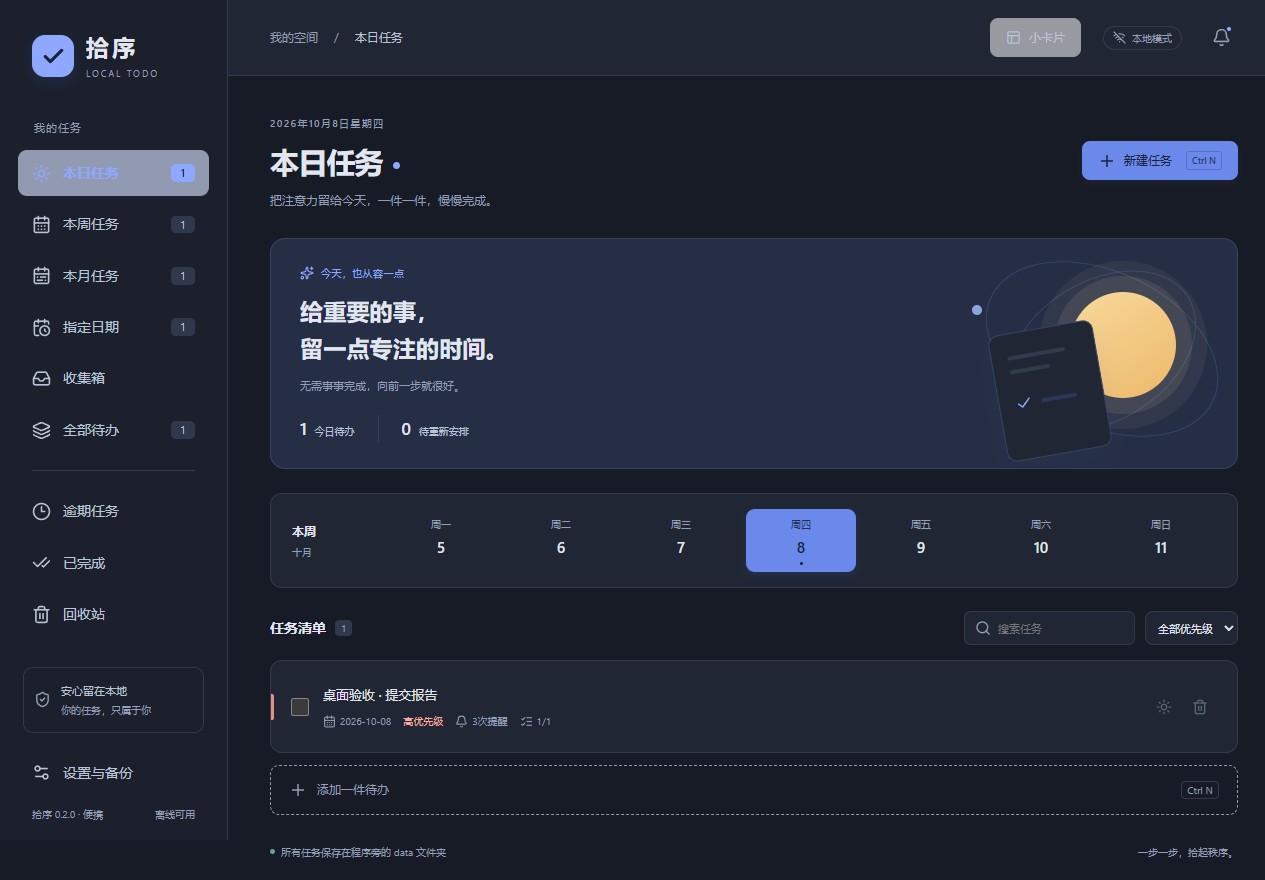
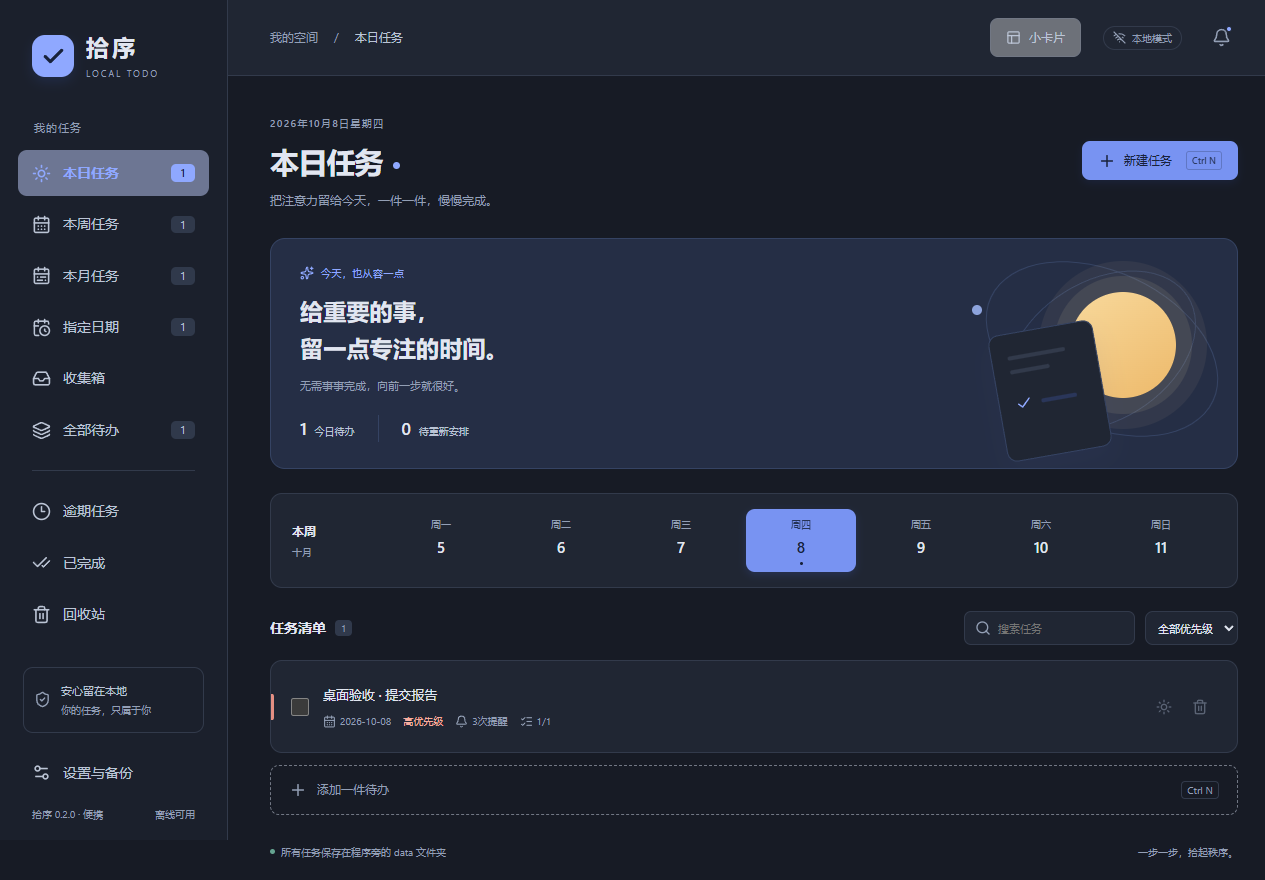
feat: add desktop card context menu and disable browser menus

Changed region(s): [[0.0, 0.1534, 0.185, 0.2455], [0.7708, 0.0, 0.8632, 0.092]]

diff --git a/src/app/DesktopCard.tsx b/src/app/DesktopCard.tsx
@@ -3,9 +3,13 @@ import {Pin,PinOff,ArrowUpRight,X,Plus,Check,CalendarDays,ChevronDown} from 'luc
 import {api} from '../features/tasks/api';
 import {emptyDraft,type Snapshot,type Task,type View} from '../features/tasks/types';
 import {confirmAction} from './confirm';
+import ContextMenu,{type ContextMenuItem} from './ContextMenu';
+import {useContextMenuPolicy} from './useContextMenuPolicy';
 import '../styles/card.css';
 
 export default function DesktopCard(){
+ useContextMenuPolicy();
+ const [menu,setMenu]=useState<{x:number;y:number;task:Task|null}|null>(null);const quickInput=useRef<HTMLInputElement>(null);
  const [data,setData]=useState<Snapshot|null>(null),[view,setView]=useState<View>('today'),[pinned,setPinned]=useState(true),[title,setTitle]=useState(''),[error,setError]=useState(''),[busy,setBusy]=useState(false),[pending,setPending]=useState<string[]>([]),[limit,setLimit]=useState(20);
  const sequence=useRef(0);
  const refresh=useCallback(async()=>{const seq=++sequence.current;try{const result=await api.snapshot({view,selected_date:null,search:'',priority:null,offset:0,limit});if(seq===sequence.current)setData(result);}catch(e){if(seq===sequence.current)setError(String(e instanceof Error?e.message:e));}},[view,limit]);
@@ -15,14 +19,20 @@ export default function DesktopCard(){
  async function action(callback:()=>Promise<unknown>){setError('');try{await callback();}catch(e){setError(e instanceof Error?e.message:String(e));}}
  async function add(e:React.FormEvent){e.preventDefault();if(busy||!title.trim())return;setBusy(true);await action(async()=>{const today=data?.today;if(!today)throw new Error('任务尚未加载，请稍后重试');await api.save(null,{...emptyDraft(today,data?.settings.default_reminder_time),title:title.trim(),planned_date:today,due_date:today},'single');setTitle('');await refresh();});setBusy(false);}
  async function toggle(task:Task){if(pending.includes(task.id))return;setPending(p=>[...p,task.id]);await action(async()=>{if(task.draft.subtasks.some(t=>!t.completed)&&!await confirmAction('完成父任务将同时完成所有未完成子任务，是否继续？'))return;await api.complete(task.id,true);await refresh();});setPending(p=>p.filter(id=>id!==task.id));}
- return <main className="desktop-card">
-  <header className="card-header"><div className="card-brand" data-tauri-drag-region><span className="card-logo" data-tauri-drag-region><Check size={16}/></span><strong data-tauri-drag-region>拾序</strong><span className="card-drag-hint" data-tauri-drag-region>桌面小卡片</span></div><div className="card-actions"><button className="icon-button" aria-label={pinned?'取消置顶':'置顶卡片'} aria-pressed={pinned} disabled={busy} onClick={()=>{setBusy(true);void action(async()=>setPinned(await api.setCardPin(!pinned))).finally(()=>setBusy(false));}}>{pinned?<Pin size={15}/>:<PinOff size={15}/>}</button><button className="icon-button" aria-label="打开主界面" onClick={()=>void action(api.openMain)}><ArrowUpRight size={17}/></button><button className="icon-button" aria-label="隐藏小卡片" onClick={()=>void action(api.hideCard)}><X size={16}/></button></div></header>
+ async function togglePin(){if(busy)return;setBusy(true);await action(async()=>setPinned(await api.setCardPin(!pinned)));setBusy(false);}
+ async function removeTask(task:Task){if(pending.includes(task.id))return;setPending(p=>[...p,task.id]);await action(async()=>{await api.remove(task.id,true);await refresh();});setPending(p=>p.filter(id=>id!==task.id));}
+ const items:ContextMenuItem[]=[];
+ if(menu?.task){const task=menu.task;const disabled=pending.includes(task.id);items.push({label:'完成任务',disabled,onSelect:()=>void toggle(task)},{label:'编辑任务',disabled,onSelect:()=>void action(()=>api.editInMain(task.id))},{label:'移入回收站',disabled,danger:true,onSelect:()=>void removeTask(task)});}
+ items.push({label:'添加今日任务',disabled:busy,onSelect:()=>quickInput.current?.focus()},{label:pinned?'取消置顶':'置顶卡片',disabled:busy,onSelect:()=>void togglePin()},{label:'刷新任务',onSelect:()=>void refresh()},{label:'打开主界面',onSelect:()=>void action(api.openMain)},{label:'隐藏小卡片',onSelect:()=>void action(api.hideCard)});
+ return <main className="desktop-card" onContextMenu={event=>{event.preventDefault();if((event.target as Element).closest('[role="menu"]'))return;const id=(event.target as Element).closest<HTMLElement>('.card-task')?.dataset.taskId;setMenu({x:event.clientX,y:event.clientY,task:data?.tasks.find(task=>task.id===id)||null});}}>
+  <header className="card-header"><div className="card-brand" data-tauri-drag-region><span className="card-logo" data-tauri-drag-region><Check size={16}/></span><strong data-tauri-drag-region>拾序</strong><span className="card-drag-hint" data-tauri-drag-region>桌面小卡片</span></div><div className="card-actions"><button className="icon-button" aria-label={pinned?'取消置顶':'置顶卡片'} aria-pressed={pinned} disabled={busy} onClick={()=>void togglePin()}>{pinned?<Pin size={15}/>:<PinOff size={15}/>}</button><button className="icon-button" aria-label="打开主界面" onClick={()=>void action(api.openMain)}><ArrowUpRight size={17}/></button><button className="icon-button" aria-label="隐藏小卡片" onClick={()=>void action(api.hideCard)}><X size={16}/></button></div></header>
   <section className="card-overview"><div><span>{data?.today||'正在加载'} · {pinned?'已置顶':'自由窗口'}</span><h1>一步一步，完成今天。</h1></div><div className="card-counter"><strong>{data?.counts.today||0}</strong><span>今日待办</span></div></section>
   <div className="card-filter"><label><select aria-label="卡片任务视图" value={view} onChange={e=>{setView(e.target.value as View);setLimit(20);}}><option value="today">本日任务</option><option value="week">本周任务</option><option value="overdue">逾期任务</option><option value="all">全部待办</option></select><ChevronDown size={13}/></label><span>{data?.total||0} 项</span></div>
   {error&&<p className="card-error" role="alert">{error}<button onClick={()=>{setError('');void refresh();}}>重试</button></p>}
   {data?.scheduler_error&&<p className="card-error" role="alert">后台提醒暂时不可用：{data.scheduler_error}</p>}
-  <div className="card-task-list">{!data?<p className="card-empty">正在打开任务…</p>:data.tasks.length?data.tasks.map(task=><article className="card-task" key={task.id}><input type="checkbox" aria-label={`完成 ${task.draft.title}`} checked={task.completed} disabled={pending.includes(task.id)} onChange={()=>void toggle(task)}/><div><button className="card-task-title" disabled={pending.includes(task.id)} onClick={()=>void action(()=>api.editInMain(task.id))}>{task.draft.title}</button><div className="card-task-meta">{task.draft.due_date&&<span className={data.overdue_ids.includes(task.id)?'is-overdue':''}><CalendarDays size={11}/>{task.draft.due_date.slice(5)}{data.overdue_ids.includes(task.id)?' · 逾期':''}</span>}{task.draft.priority===2&&<span className="is-overdue">高优先级</span>}{task.draft.subtasks.length>0&&<span>{task.draft.subtasks.filter(s=>s.completed).length}/{task.draft.subtasks.length} 步骤</span>}</div></div></article>):<div className="card-empty"><Check size={25}/><p>{view==='today'?'今天清清爽爽':'没有匹配的待办'}</p><span>写下一件小事，从这里开始。</span></div>}
+  <div className="card-task-list">{!data?<p className="card-empty">正在打开任务…</p>:data.tasks.length?data.tasks.map(task=><article className="card-task" key={task.id} data-task-id={task.id}><input type="checkbox" aria-label={`完成 ${task.draft.title}`} checked={task.completed} disabled={pending.includes(task.id)} onChange={()=>void toggle(task)}/><div><button className="card-task-title" disabled={pending.includes(task.id)} onClick={()=>void action(()=>api.editInMain(task.id))}>{task.draft.title}</button><div className="card-task-meta">{task.draft.due_date&&<span className={data.overdue_ids.includes(task.id)?'is-overdue':''}><CalendarDays size={11}/>{task.draft.due_date.slice(5)}{data.overdue_ids.includes(task.id)?' · 逾期':''}</span>}{task.draft.priority===2&&<span className="is-overdue">高优先级</span>}{task.draft.subtasks.length>0&&<span>{task.draft.subtasks.filter(s=>s.completed).length}/{task.draft.subtasks.length} 步骤</span>}</div></div></article>):<div className="card-empty"><Check size={25}/><p>{view==='today'?'今天清清爽爽':'没有匹配的待办'}</p><span>写下一件小事，从这里开始。</span></div>}
   {data&&data.total>data.tasks.length&&<button className="card-more" onClick={()=>{if(limit<100)setLimit(n=>Math.min(100,n+20));else void action(api.openMain);}}>{limit<100?'加载更多':'打开主界面查看全部'}</button>}</div>
-  <form className="card-quick-add" onSubmit={add}><input aria-label="快速添加任务" placeholder="添加一件今日待办…" maxLength={200} value={title} onChange={e=>setTitle(e.target.value)} disabled={busy}/><button aria-label="添加任务" type="submit" disabled={busy||!title.trim()||!data}><Plus size={18}/></button></form><footer className="card-footer"><span className="saved-dot"/>保存在程序旁的 data 文件夹</footer>
+  <form className="card-quick-add" onSubmit={add}><input ref={quickInput} aria-label="快速添加任务" placeholder="添加一件今日待办…" maxLength={200} value={title} onChange={e=>setTitle(e.target.value)} disabled={busy}/><button aria-label="添加任务" type="submit" disabled={busy||!title.trim()||!data}><Plus size={18}/></button></form><footer className="card-footer"><span className="saved-dot"/>保存在程序旁的 data 文件夹</footer>
+ {menu&&<ContextMenu x={menu.x} y={menu.y} items={items} onClose={()=>setMenu(null)}/>}
  </main>;
 }

diff --git a/src/app/DesktopCard.test.tsx b/src/app/DesktopCard.test.tsx
@@ -1,11 +1,27 @@
-import {render,screen,waitFor} from '@testing-library/react';
+import {render,screen,waitFor,fireEvent} from '@testing-library/react';
 import userEvent from '@testing-library/user-event';
 import {it,expect,vi} from 'vitest';
 import DesktopCard from './DesktopCard';
 import {emptyDraft} from '../features/tasks/types';
-const mock=vi.hoisted(()=>({snapshot:vi.fn(),save:vi.fn(),complete:vi.fn(),cardPin:vi.fn().mockResolvedValue(true),setCardPin:vi.fn(),hideCard:vi.fn(),openMain:vi.fn(),editInMain:vi.fn(),subscribe:vi.fn().mockResolvedValue(()=>{})}));
+const mock=vi.hoisted(()=>({snapshot:vi.fn(),save:vi.fn(),complete:vi.fn(),remove:vi.fn(),cardPin:vi.fn().mockResolvedValue(true),setCardPin:vi.fn(),hideCard:vi.fn(),openMain:vi.fn(),editInMain:vi.fn(),subscribe:vi.fn().mockResolvedValue(()=>{})}));
 vi.mock('../features/tasks/api',()=>({api:mock}));
 const snapshot={tasks:[],total:0,today:'2026-10-08',overdue_ids:[],counts:{today:0,overdue:0},settings:{theme:'light'},generation_pending:false};
+it('任务右键只显示管理菜单，编辑和删除使用正确任务，Esc可关闭',async()=>{
+ const task={id:'context-task',draft:{...emptyDraft('2026-10-08'),title:'右键任务'},completed:false,deleted:false,series_id:null,occurrence_date:null,revision:1,created_at:'',updated_at:'',completed_at:null};
+ mock.snapshot.mockResolvedValue({...snapshot,tasks:[task],total:1});mock.editInMain.mockResolvedValue(undefined);mock.remove.mockRejectedValue(new Error('删除失败'));
+ const user=userEvent.setup();render(<DesktopCard/>);const title=await screen.findByRole('button',{name:'右键任务'});
+ const event=new MouseEvent('contextmenu',{bubbles:true,cancelable:true,clientX:100,clientY:100});expect(title.dispatchEvent(event)).toBe(false);
+ expect(await screen.findByRole('menu')).not.toHaveTextContent(/检查|Inspect|DevTools|调试/);
+ await user.click(screen.getByRole('menuitem',{name:'编辑任务'}));expect(mock.editInMain).toHaveBeenCalledWith('context-task');
+ fireEvent.contextMenu(title);await user.keyboard('{Escape}');expect(screen.queryByRole('menu')).not.toBeInTheDocument();
+ fireEvent.contextMenu(title);await user.click(screen.getByRole('menuitem',{name:'移入回收站'}));expect(mock.remove).toHaveBeenCalledWith('context-task',true);expect(await screen.findByRole('alert')).toHaveTextContent('删除失败');expect(title).toBeVisible();
+});
+it('空白右键支持快速添加入口和置顶，点击外部关闭',async()=>{
+ mock.snapshot.mockResolvedValue(snapshot);mock.setCardPin.mockResolvedValue(false);const user=userEvent.setup();render(<DesktopCard/>);await screen.findByText('今天清清爽爽');
+ fireEvent.contextMenu(screen.getByRole('heading',{name:'一步一步，完成今天。'}));await user.click(screen.getByRole('menuitem',{name:'添加今日任务'}));expect(screen.getByLabelText('快速添加任务')).toHaveFocus();
+ fireEvent.contextMenu(screen.getByRole('heading'));await user.click(screen.getByRole('menuitem',{name:'取消置顶'}));expect(mock.setCardPin).toHaveBeenCalledWith(false);
+ fireEvent.contextMenu(screen.getByRole('heading'));fireEvent.pointerDown(document.body);expect(screen.queryByRole('menu')).not.toBeInTheDocument();
+});
 it('小卡片快速添加到今日，失败保留输入，成功后刷新',async()=>{
  mock.snapshot.mockResolvedValue(snapshot);mock.save.mockRejectedValueOnce(new Error('磁盘满')).mockResolvedValueOnce({});
  const user=userEvent.setup();render(<DesktopCard/>);await screen.findByText('今天清清爽爽');

diff --git a/src/app/ContextMenu.tsx b/src/app/ContextMenu.tsx
@@ -1,0 +1,14 @@
+import {useEffect,useLayoutEffect,useRef} from 'react';
+import {createPortal} from 'react-dom';
+
+export interface ContextMenuItem {label:string;onSelect:()=>void;disabled?:boolean;danger?:boolean}
+export default function ContextMenu({x,y,items,onClose}:{x:number;y:number;items:ContextMenuItem[];onClose:()=>void}){
+ const ref=useRef<HTMLDivElement>(null);const closeRef=useRef(onClose);closeRef.current=onClose;
+ useLayoutEffect(()=>{const menu=ref.current;if(!menu)return;const box=menu.getBoundingClientRect();menu.style.left=Math.max(6,Math.min(x,window.innerWidth-box.width-6))+'px';menu.style.top=Math.max(6,Math.min(y,window.innerHeight-box.height-6))+'px';menu.querySelector<HTMLButtonElement>('button:not(:disabled)')?.focus();},[x,y]);
+ useEffect(()=>{const outside=(event:PointerEvent)=>{if(!ref.current?.contains(event.target as Node))closeRef.current();};const dismiss=()=>closeRef.current();document.addEventListener('pointerdown',outside,true);window.addEventListener('blur',dismiss);window.addEventListener('resize',dismiss);return()=>{document.removeEventListener('pointerdown',outside,true);window.removeEventListener('blur',dismiss);window.removeEventListener('resize',dismiss);};},[]);
+ return createPortal(<div ref={ref} role="menu" aria-label="小卡片右键菜单" className="card-context-menu" style={{left:x,top:y}} onContextMenu={event=>event.preventDefault()} onKeyDown={event=>{
+  const buttons=Array.from(ref.current?.querySelectorAll<HTMLButtonElement>('button:not(:disabled)')||[]);const index=buttons.indexOf(document.activeElement as HTMLButtonElement);
+  if(event.key==='Escape'||event.key==='Tab'){event.preventDefault();event.stopPropagation();onClose();}
+  if(['ArrowDown','ArrowUp','Home','End'].includes(event.key)){event.preventDefault();const next=event.key==='Home'?0:event.key==='End'?buttons.length-1:(index+(event.key==='ArrowDown'?1:-1)+buttons.length)%buttons.length;buttons[next]?.focus();}
+ }}>{items.map(item=><button key={item.label} role="menuitem" tabIndex={-1} disabled={item.disabled} className={item.danger?'danger':''} onClick={()=>{onClose();item.onSelect();}}>{item.label}</button>)}</div>,document.body);
+}

diff --git a/src/app/App.tsx b/src/app/App.tsx
@@ -7,9 +7,11 @@ import TaskEditor from './TaskEditor';
 import TaskList from './TaskList';
 import Settings from './Settings';
 import ReminderInbox from '../features/reminders/ReminderInbox';
+import {useContextMenuPolicy} from './useContextMenuPolicy';
 
 function localDate(){const d=new Date();return `${d.getFullYear()}-${String(d.getMonth()+1).padStart(2,'0')}-${String(d.getDate()).padStart(2,'0')}`;}
 export default function App(){
+ useContextMenuPolicy();
  const [view,setView]=useState<View>('today');const [date,setDate]=useState(localDate());const [search,setSearch]=useState('');const [searchQuery,setSearchQuery]=useState('');const [priority,setPriority]=useState<number|null>(null);const [page,setPage]=useState(0);
  const [data,setData]=useState<Snapshot|null>(null);const [error,setError]=useState('');const [loading,setLoading]=useState(true);const [editor,setEditor]=useState<{task:Task|null;token:number}|null>(null);const [showSettings,setShowSettings]=useState(false);const [showInbox,setShowInbox]=useState(false);const [notice,setNotice]=useState('');const sequence=useRef(0);const searchRef=useRef<HTMLInputElement>(null);
  const [schedulerError,setSchedulerError]=useState('');const editorGuard=useRef<()=>Promise<boolean>>(async()=>true);const editorToken=useRef(0);

diff --git a/src/styles/card.css b/src/styles/card.css
@@ -9,3 +9,8 @@ body:has(.desktop-card){margin:0;min-width:0;overflow:hidden;background:var(--su
 .card-filter select{min-height:24px}.card-quick-add button{background:var(--accent);color:var(--on-accent)}
 .card-task{border-radius:6px;transition:background-color .15s ease}
 .card-task:hover,.card-task:focus-within{background:var(--accent-soft)}
+.card-context-menu{position:fixed;z-index:1000;width:200px;max-width:calc(100vw - 12px);max-height:calc(100vh - 12px);overflow-y:auto;padding:5px;border:1px solid var(--border);border-radius:10px;background:var(--surface);box-shadow:0 8px 28px #0003}
+.card-context-menu button{display:block;width:100%;border:0;border-radius:6px;padding:9px 12px;text-align:left;background:transparent;color:var(--text);font:inherit;font-size:13px;cursor:pointer}
+.card-context-menu button:hover,.card-context-menu button:focus-visible{background:var(--accent-soft);outline:none}
+.card-context-menu button.danger{color:var(--danger)}
+.card-context-menu button:disabled{opacity:.45;cursor:default;background:transparent}

diff --git a/src/app/useContextMenuPolicy.test.tsx b/src/app/useContextMenuPolicy.test.tsx
@@ -1,0 +1,12 @@
+import {render} from '@testing-library/react';
+import {it,expect} from 'vitest';
+import {useContextMenuPolicy} from './useContextMenuPolicy';
+function Window(){useContextMenuPolicy();return <input/>;}
+it('取消浏览器右键及调试快捷键，保持普通编辑快捷键可用',()=>{
+ const {unmount}=render(<Window/>);
+ expect(document.dispatchEvent(new MouseEvent('contextmenu',{bubbles:true,cancelable:true}))).toBe(false);
+ expect(window.dispatchEvent(new KeyboardEvent('keydown',{key:'F12',cancelable:true}))).toBe(false);
+ expect(window.dispatchEvent(new KeyboardEvent('keydown',{key:'I',ctrlKey:true,shiftKey:true,cancelable:true}))).toBe(false);
+ expect(window.dispatchEvent(new KeyboardEvent('keydown',{key:'v',ctrlKey:true,cancelable:true}))).toBe(true);
+ unmount();expect(document.dispatchEvent(new MouseEvent('contextmenu',{cancelable:true}))).toBe(true);
+});

diff --git a/src/app/useContextMenuPolicy.ts b/src/app/useContextMenuPolicy.ts
@@ -1,0 +1,11 @@
+import {useEffect} from 'react';
+
+/** Cancel browser menus without blocking the card's own context-menu handler. */
+export function useContextMenuPolicy(){
+ useEffect(()=>{
+  const context=(event:MouseEvent)=>event.preventDefault();
+  const keyboard=(event:KeyboardEvent)=>{if(event.key==='F12'||((event.ctrlKey||event.metaKey)&&event.shiftKey&&['i','j','c'].includes(event.key.toLowerCase())))event.preventDefault();};
+  document.addEventListener('contextmenu',context,true);window.addEventListener('keydown',keyboard,true);
+  return()=>{document.removeEventListener('contextmenu',context,true);window.removeEventListener('keydown',keyboard,true);};
+ },[]);
+}

diff --git a/README.md b/README.md
@@ -62,7 +62,7 @@ npm run tauri build -- --debug --no-bundle
 - `src`：中文界面、任务详情、设置、提醒中心与交互测试。
 - `docs`：已确认方案、开发记录、验收结果与界面截图。
 
-首版不包含云同步、独立Windows服务或通知点击跳转；关机/主动退出时不发送提醒。已通过21项Rust测试、14项前端测试和14项真实桌面检查；本机安装、关闭驻留、单实例及通知提交通过。公开分发前仍需完成干净Windows 10/11机器、真实睡眠恢复、通知关闭/勿扰、登录启动及含大量数据的跨版本升级验收，详见[acceptance.md](docs/acceptance.md)。
+首版不包含云同步、独立Windows服务或通知点击跳转；关机/主动退出时不发送提醒。已通过21项Rust测试、17项前端测试和18项真实桌面检查；本机安装、关闭驻留、单实例及通知提交通过。公开分发前仍需完成干净Windows 10/11机器、真实睡眠恢复、通知关闭/勿扰、登录启动及含大量数据的跨版本升级验收，详见[acceptance.md](docs/acceptance.md)。
 
 界面截图：
 
@@ -71,3 +71,5 @@ npm run tauri build -- --debug --no-bundle
 便携发布版检查（先从托盘退出当前实例再执行）：`./scripts/portable-smoke.ps1`。该脚本在检查完成后保留程序运行；原生确认测试通过Windows UI Automation按按钮。数据库指纹辅助脚本需要可用的Python3与sqlite3，日常开发和构建无需Python。
 
 ![桌面小卡片](docs/screenshots/desktop-card.png)
+
+主界面不显示右键菜单；小卡片右键可完成/编辑/移入回收站，也可快速添加、切换置顶、刷新、打开主界面或隐藏卡片，不包含调试菜单。

diff --git a/docs/superpowers/plans/2026-10-08-card-context-menu.md b/docs/superpowers/plans/2026-10-08-card-context-menu.md
@@ -1,0 +1,10 @@
+# Card Context Menu Implementation Plan
+
+**Goal:** 主界面禁用右键菜单，小卡片只显示任务管理菜单，不显示浏览器/调试菜单。
+**Architecture:** 共享输入策略在两窗口取消浏览器contextmenu默认行为及调试快捷键；卡片使用React菜单调用现有Rust API。窗口配置显式禁用devtools。
+**Spec:** 用户本轮右键要求。
+
+- [x] 添加输入策略和卡片菜单：任务右键完成/编辑/移入回收站，空白右键添加/置顶/刷新/主界面/隐藏。
+- [x] 菜单支持边缘避让、Esc/外部点击关闭、键盘导航；任务操作失败保留数据并提示。
+- [x] 验证默认菜单被阻止、任务菜单调用正确ID、空白菜单置顶及关闭行为、无调试条目。
+- [x] 双窗口原生烟雾验证，禁用devtools配置，构建便携程序/ZIP，更新校验并交付。

diff --git a/docs/acceptance.md b/docs/acceptance.md
@@ -45,3 +45,5 @@
 - JSON恢复替换现有数据，提前创建SQLite恢复快照；应用内不导入SQLite快照。
 
 自动化：Rust20项、前端11项全部通过；真实桌面9项通过。安装验证详见installed-smoke-results.json，安装包和升级核对详见release-verification.json。CI已配置，尚未向远程推送或运行。
+
+便携版最新增量验收：21项Rust、17项前端、18项真实双窗口检查通过；主界面默认右键与调试快捷键禁用，小卡片右键编辑、删除至回收站、快速添加入口及原生置顶保存通过，菜单无调试条目且不超出卡片边缘。详见desktop-smoke-results.json和portable-release-verification.json。
